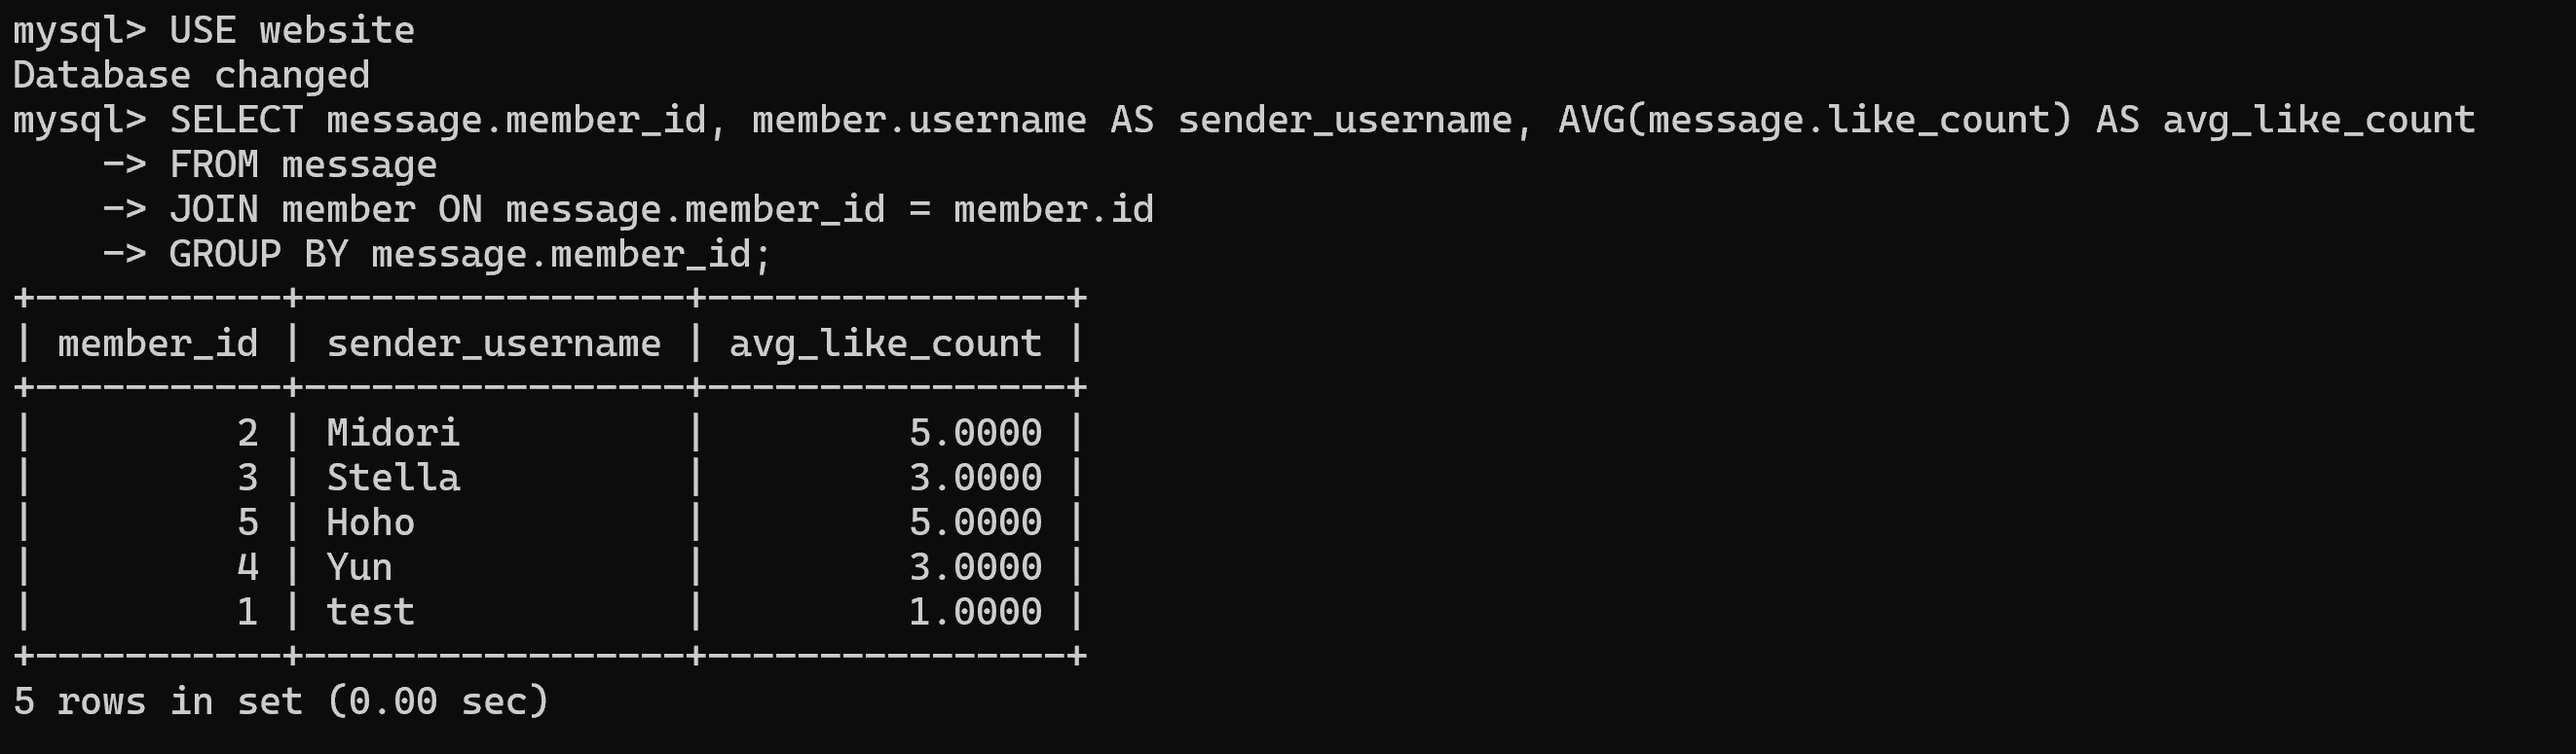
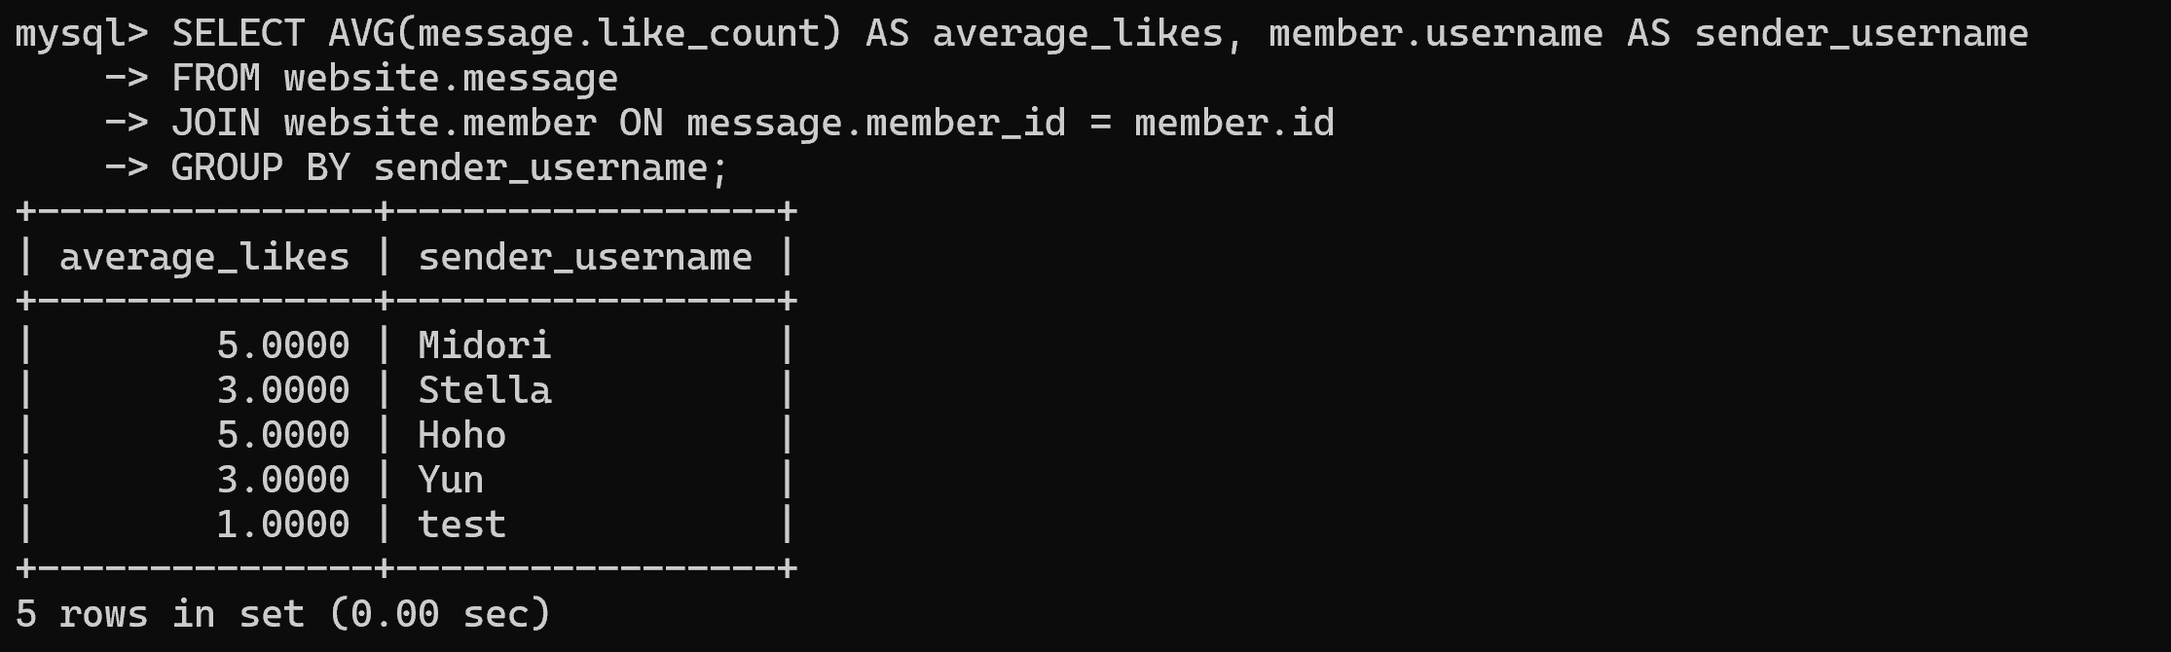
V 0.5

Changed region(s): [[0.0, 0.0, 0.9592, 0.4776], [0.0, 0.5075, 0.4332, 0.8358], [0.0, 0.8657, 0.4332, 0.9851]]

diff --git a/homework_week5/README.md b/homework_week5/README.md
@@ -150,10 +150,9 @@ WHERE member.username = 'test';
 
 **Use SELECT, SQL Aggregation Functions with JOIN statement, get the average like count of messages GROUP BY sender username.**
 ```
-USE website
-SELECT message.member_id, member.username AS sender_username, AVG(message.like_count) AS avg_like_count
-FROM message
-JOIN member ON message.member_id = member.id
-GROUP BY message.member_id;
+SELECT AVG(message.like_count) AS average_likes, member.username AS sender_username
+FROM website.message
+JOIN website.member ON message.member_id = member.id
+GROUP BY sender_username;
 ```
 ![Result](/homework_week5/pic/join_group_by.png)
